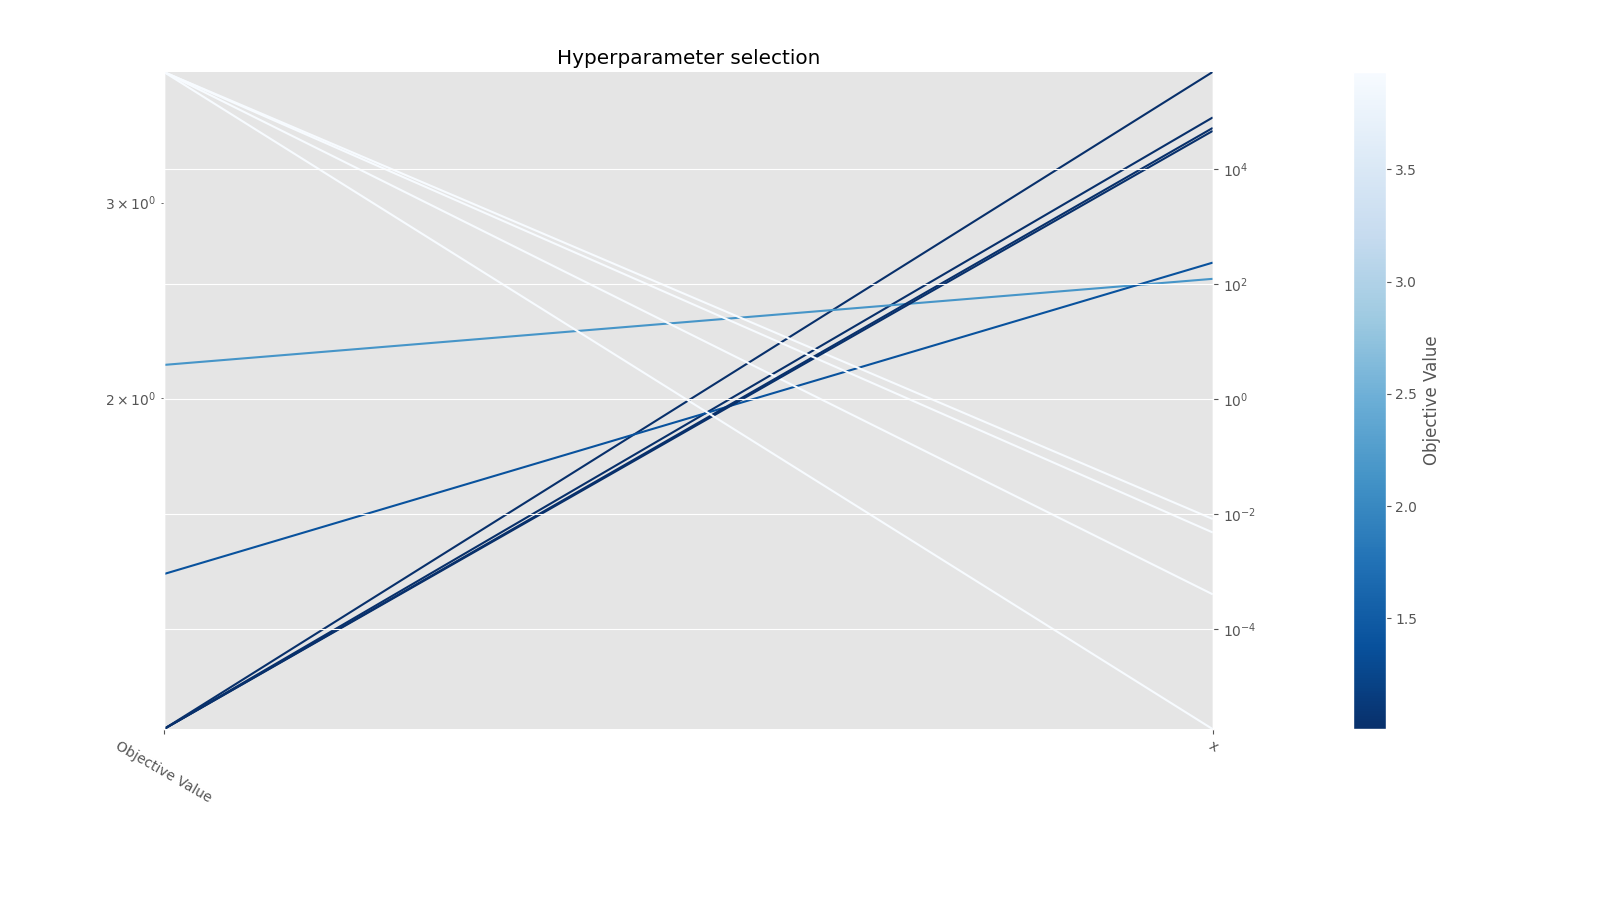
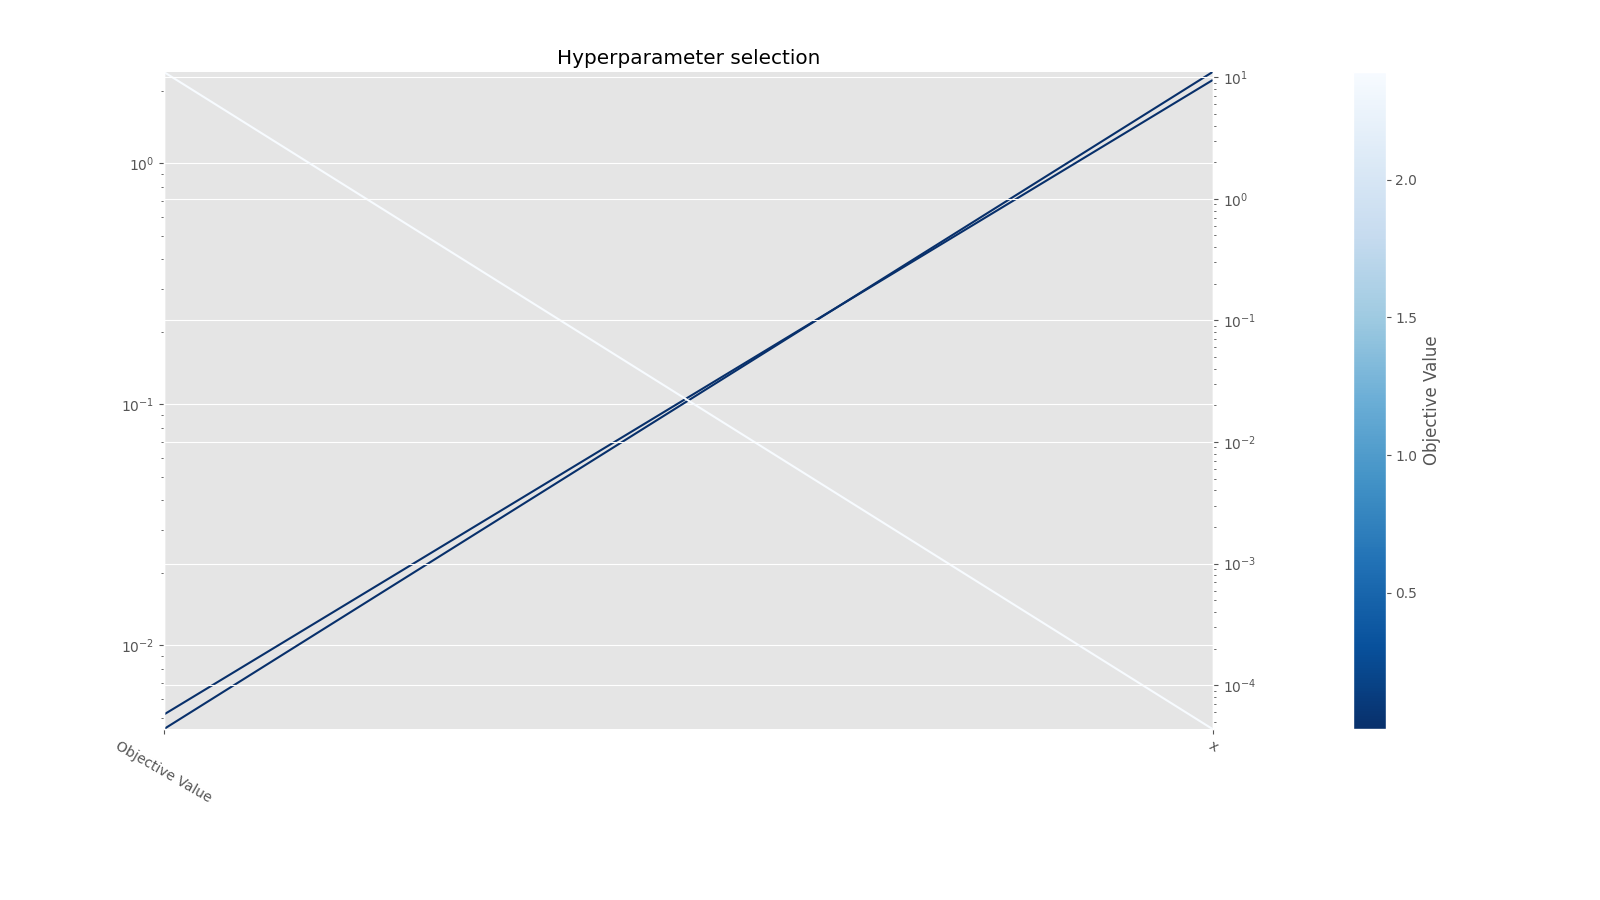
looks like ready

diff --git a/src/Neural_Network.py b/src/Neural_Network.py
@@ -23,6 +23,7 @@ research = 1                        # 0 if show result, 1 if start research
 equalLoss = []
 Loss = []
 current_loss = 0
+equal_loss = 0
 
 
 device = torch.device("cuda" if torch.cuda.is_available() else "cpu")
@@ -143,14 +144,14 @@ def train(model, lambd, trial=None):
         check = 0
         for step in pbar:
             def closure():
+                global equal_loss
                 global current_loss
                 optimizer.zero_grad()
                 loss = pdeLoss(model, lambd)
                 current_loss = loss.item()
                 loss.backward()
+                equal_loss = torch.norm(equal_f() - model(all_points).to(device).squeeze(1), p=float('inf')).item()
                 return loss
-            
-            equal_loss = torch.norm(equal_f() - model(all_points).to(device).squeeze(1), p=float('inf')).item()
 
             optimizer.step(closure)
 
@@ -160,9 +161,12 @@ def train(model, lambd, trial=None):
                 if trial.should_prune():
                     pbar.clear()
                     raise optuna.TrialPruned()
-            if step >= 18000 and check:
+            if step >= 18000 and check == 0:
                 optimizer = torch.optim.Adam(model.parameters(), 1e-4)
                 check = 1
+            if step >= 19900 and check == 1:
+                optimizer = torch.optim.Adam(model.parameters(), 1e-5)
+                check = 2
             if trial == None:
                 equalLoss.append(equal_loss)
                 Loss.append(current_loss)
@@ -173,7 +177,7 @@ def train(model, lambd, trial=None):
 
         pbar.clear()
         if trial != None:
-            return equal_loss
+            return torch.norm(equal_f() - model(all_points).to(device).squeeze(1), p=float('inf')).item()
 
 def show(z):
     plt.style.use('_mpl-gallery')
@@ -231,13 +235,13 @@ def study_show(study):
     plt.tight_layout()
 
     ax1.set_yscale('log')
-    ax1.set_xlim(-5,1000)
+    ax1.set_xlim(-5,3000)
     ax1.set_title("Hyperparameter selection")
     ax1.set_xlabel("EPOH")
     ax1.set_ylabel("Analytical deviation")
 
     ax2.set_yscale('log')
-    ax2.set_xlim(EPOH - 1000,EPOH+5)
+    ax2.set_xlim(EPOH - 1500,EPOH+5)
     ax2.set_title("Hyperparameter selection")
     ax2.set_xlabel("EPOH")
     ax2.set_ylabel("Analytical deviation")
@@ -280,7 +284,7 @@ if __name__ == "__main__":
                 n_startup_trials=10, n_warmup_steps=2500, interval_steps=300
                 ),
                 )
-        study.optimize(objective, n_trials=200)
+        study.optimize(objective, n_trials=3)
         study_show(study)
     else:
         neural_model = simpleModel().to(device)
